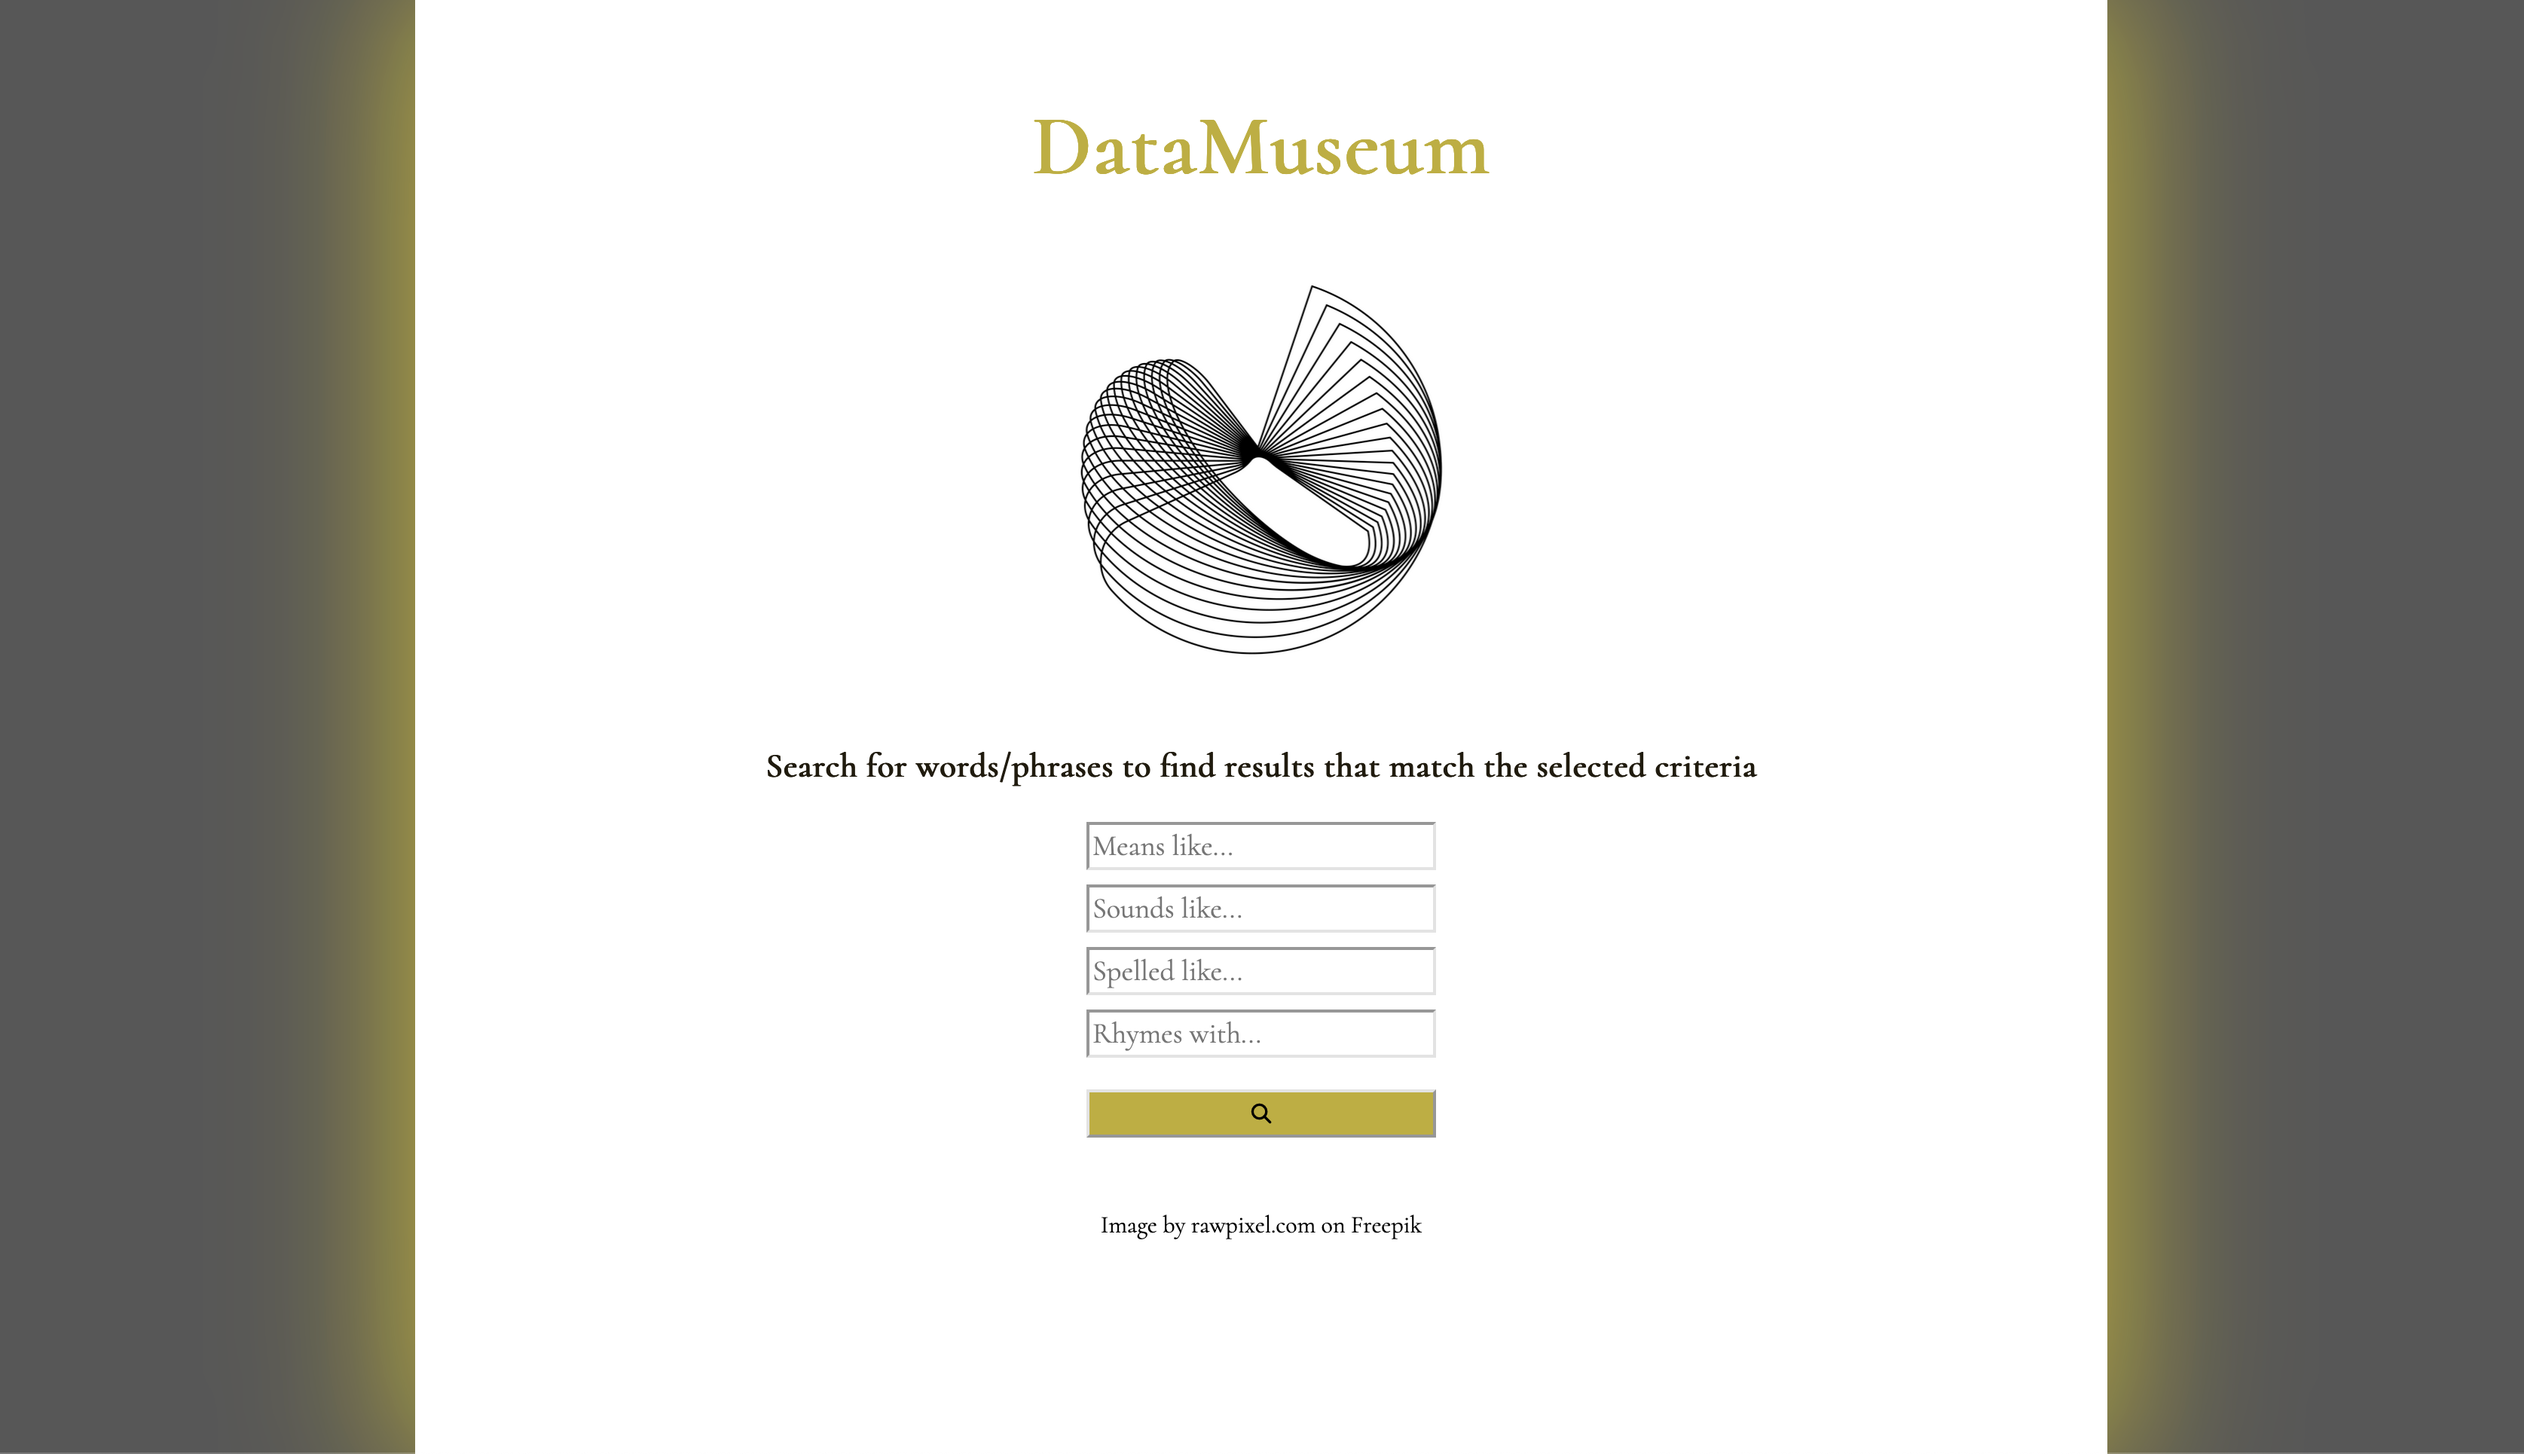
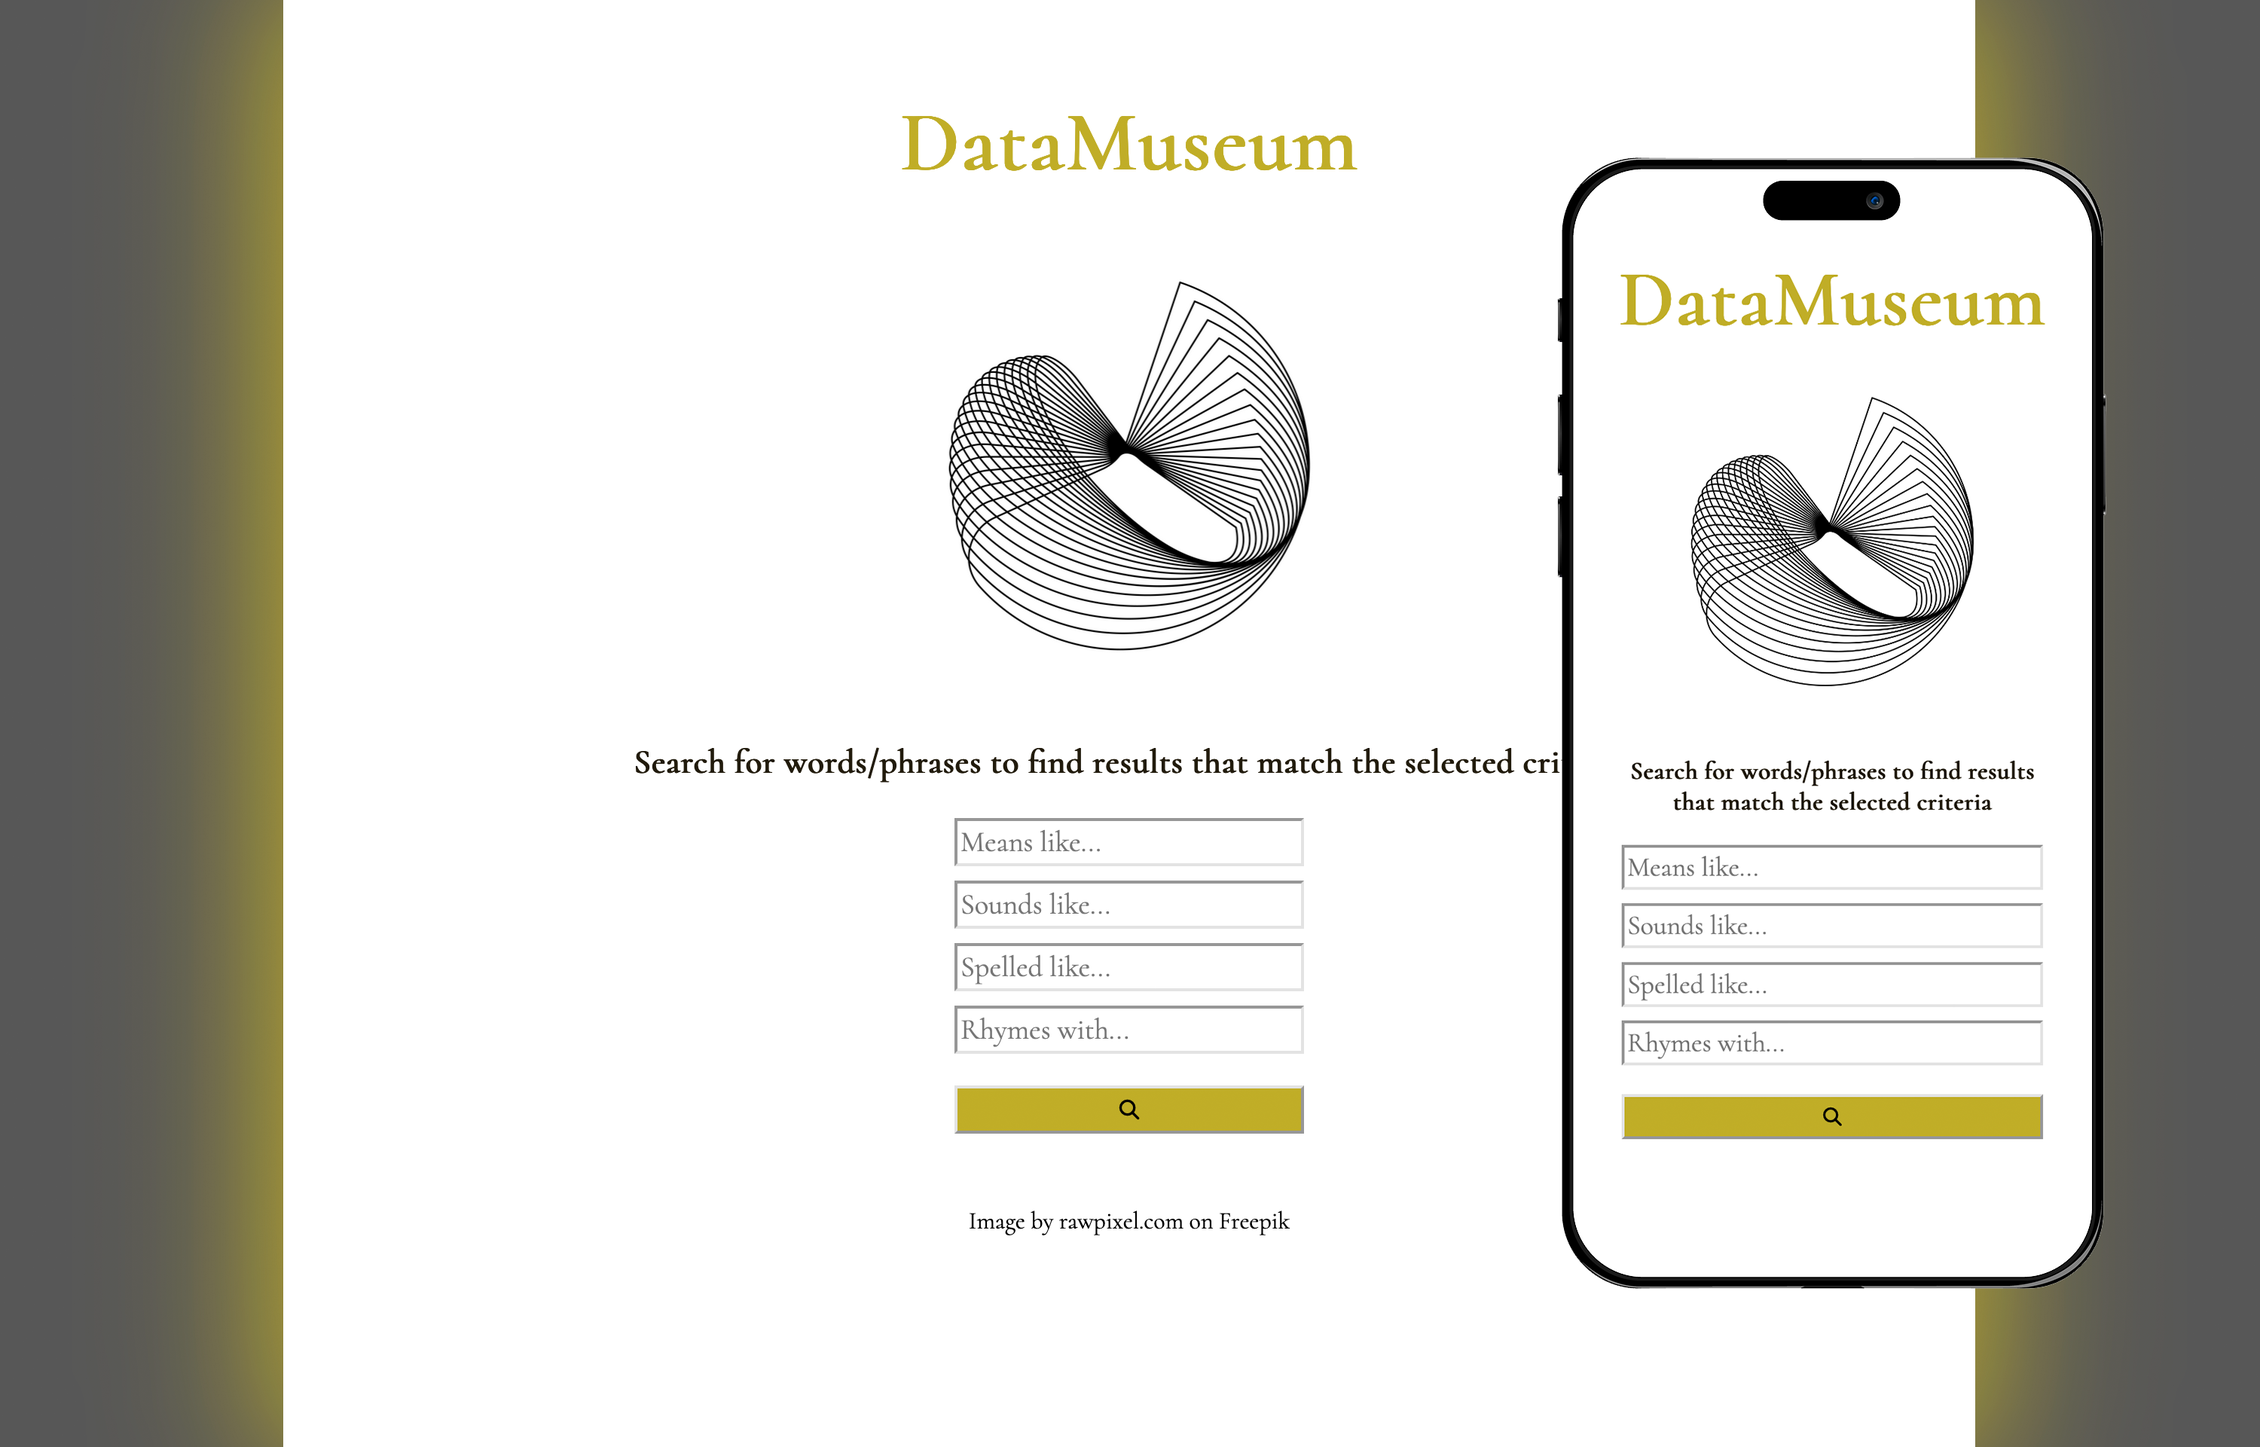
added new datamuseum img and swapped paragraph visibility on hover

diff --git a/style.css b/style.css
@@ -298,21 +298,21 @@ img {
 }
 
 .project-container div > div:hover {
-  /* opacity: 1; */
+  box-shadow: 0 0 0 800px #0c0a15e1 inset;
+  opacity: 1;
   cursor: pointer;
   transform: scale(1.04);
   transition: 0.3s ease-out;
 }
 
 .project-container p {
-  box-shadow: 0 0 0 800px #0c0a15e1 inset;
   width: 100%;
   height: 100%;
   display: flex;
   justify-content: center;
   align-items: center;
-  opacity: 1;
-  transform: scale(1);
+  opacity: 0;
+  transform: scale(0);
   font-size: 28px;
   color: var(--var-bright-blue);
   padding: 2rem;
@@ -320,8 +320,9 @@ img {
 }
 
 .project-container div > div:hover p {
-  opacity: 0;
-  transform: scale(0);
+  opacity: 1;
+  transform: scale(1);
+  transition: 0.4s ease-out;
 }
 
 .project-container div:not(:hover) {
@@ -346,8 +347,7 @@ img {
 #projects .project-container .number-website,
 #projects .project-container .music-website,
 #projects .project-container .edge-ledger,
-#projects .project-container .news-grid
-{
+#projects .project-container .news-grid {
   background: var(--var-darker-color);
   padding: 1rem 0;
 }
@@ -570,9 +570,13 @@ form button:active {
 
   .project-container .website > div {
     max-height: 26rem;
-    max-width: 80vw;
-    box-shadow: 0px 15px 30px var(--var-bright-blue);
+    max-width: 90vw;
+    box-shadow: 0px 10px 25px var(--var-bright-blue);
     margin-top: 1rem;
     margin-bottom: 2rem;
+  }
+
+  .project-container .datamuseum-website > div {
+    background-position: right;
   }
 }
